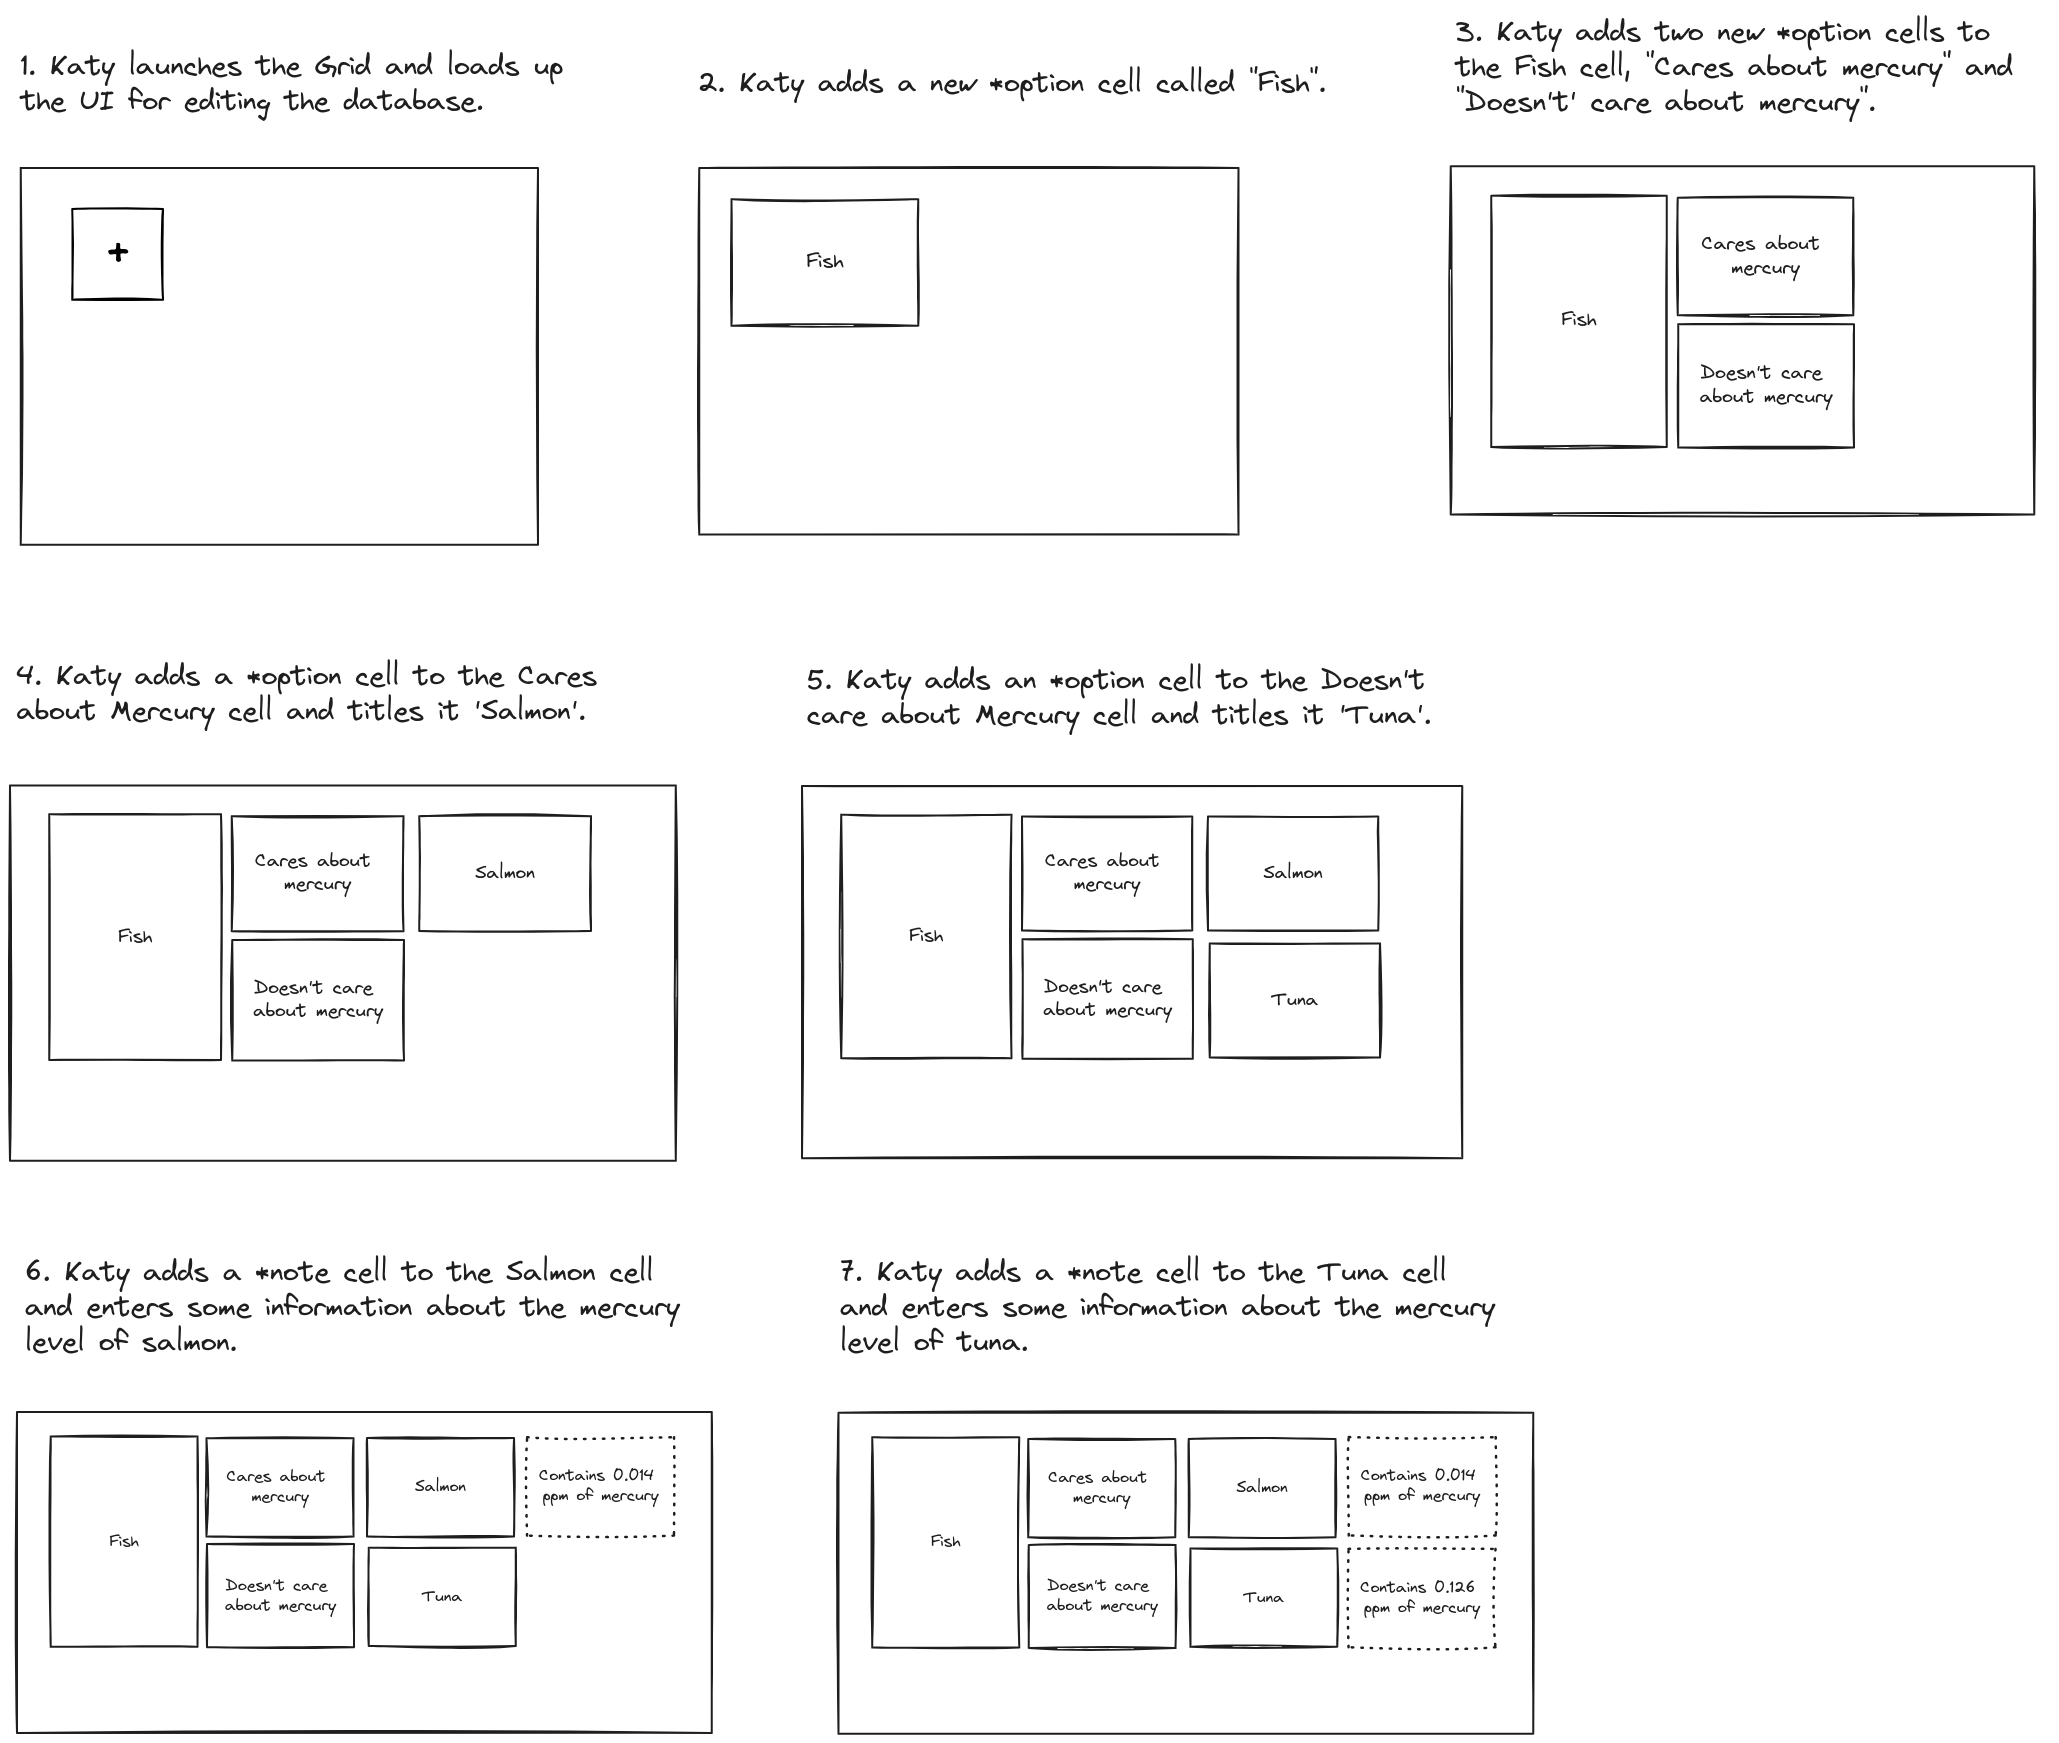
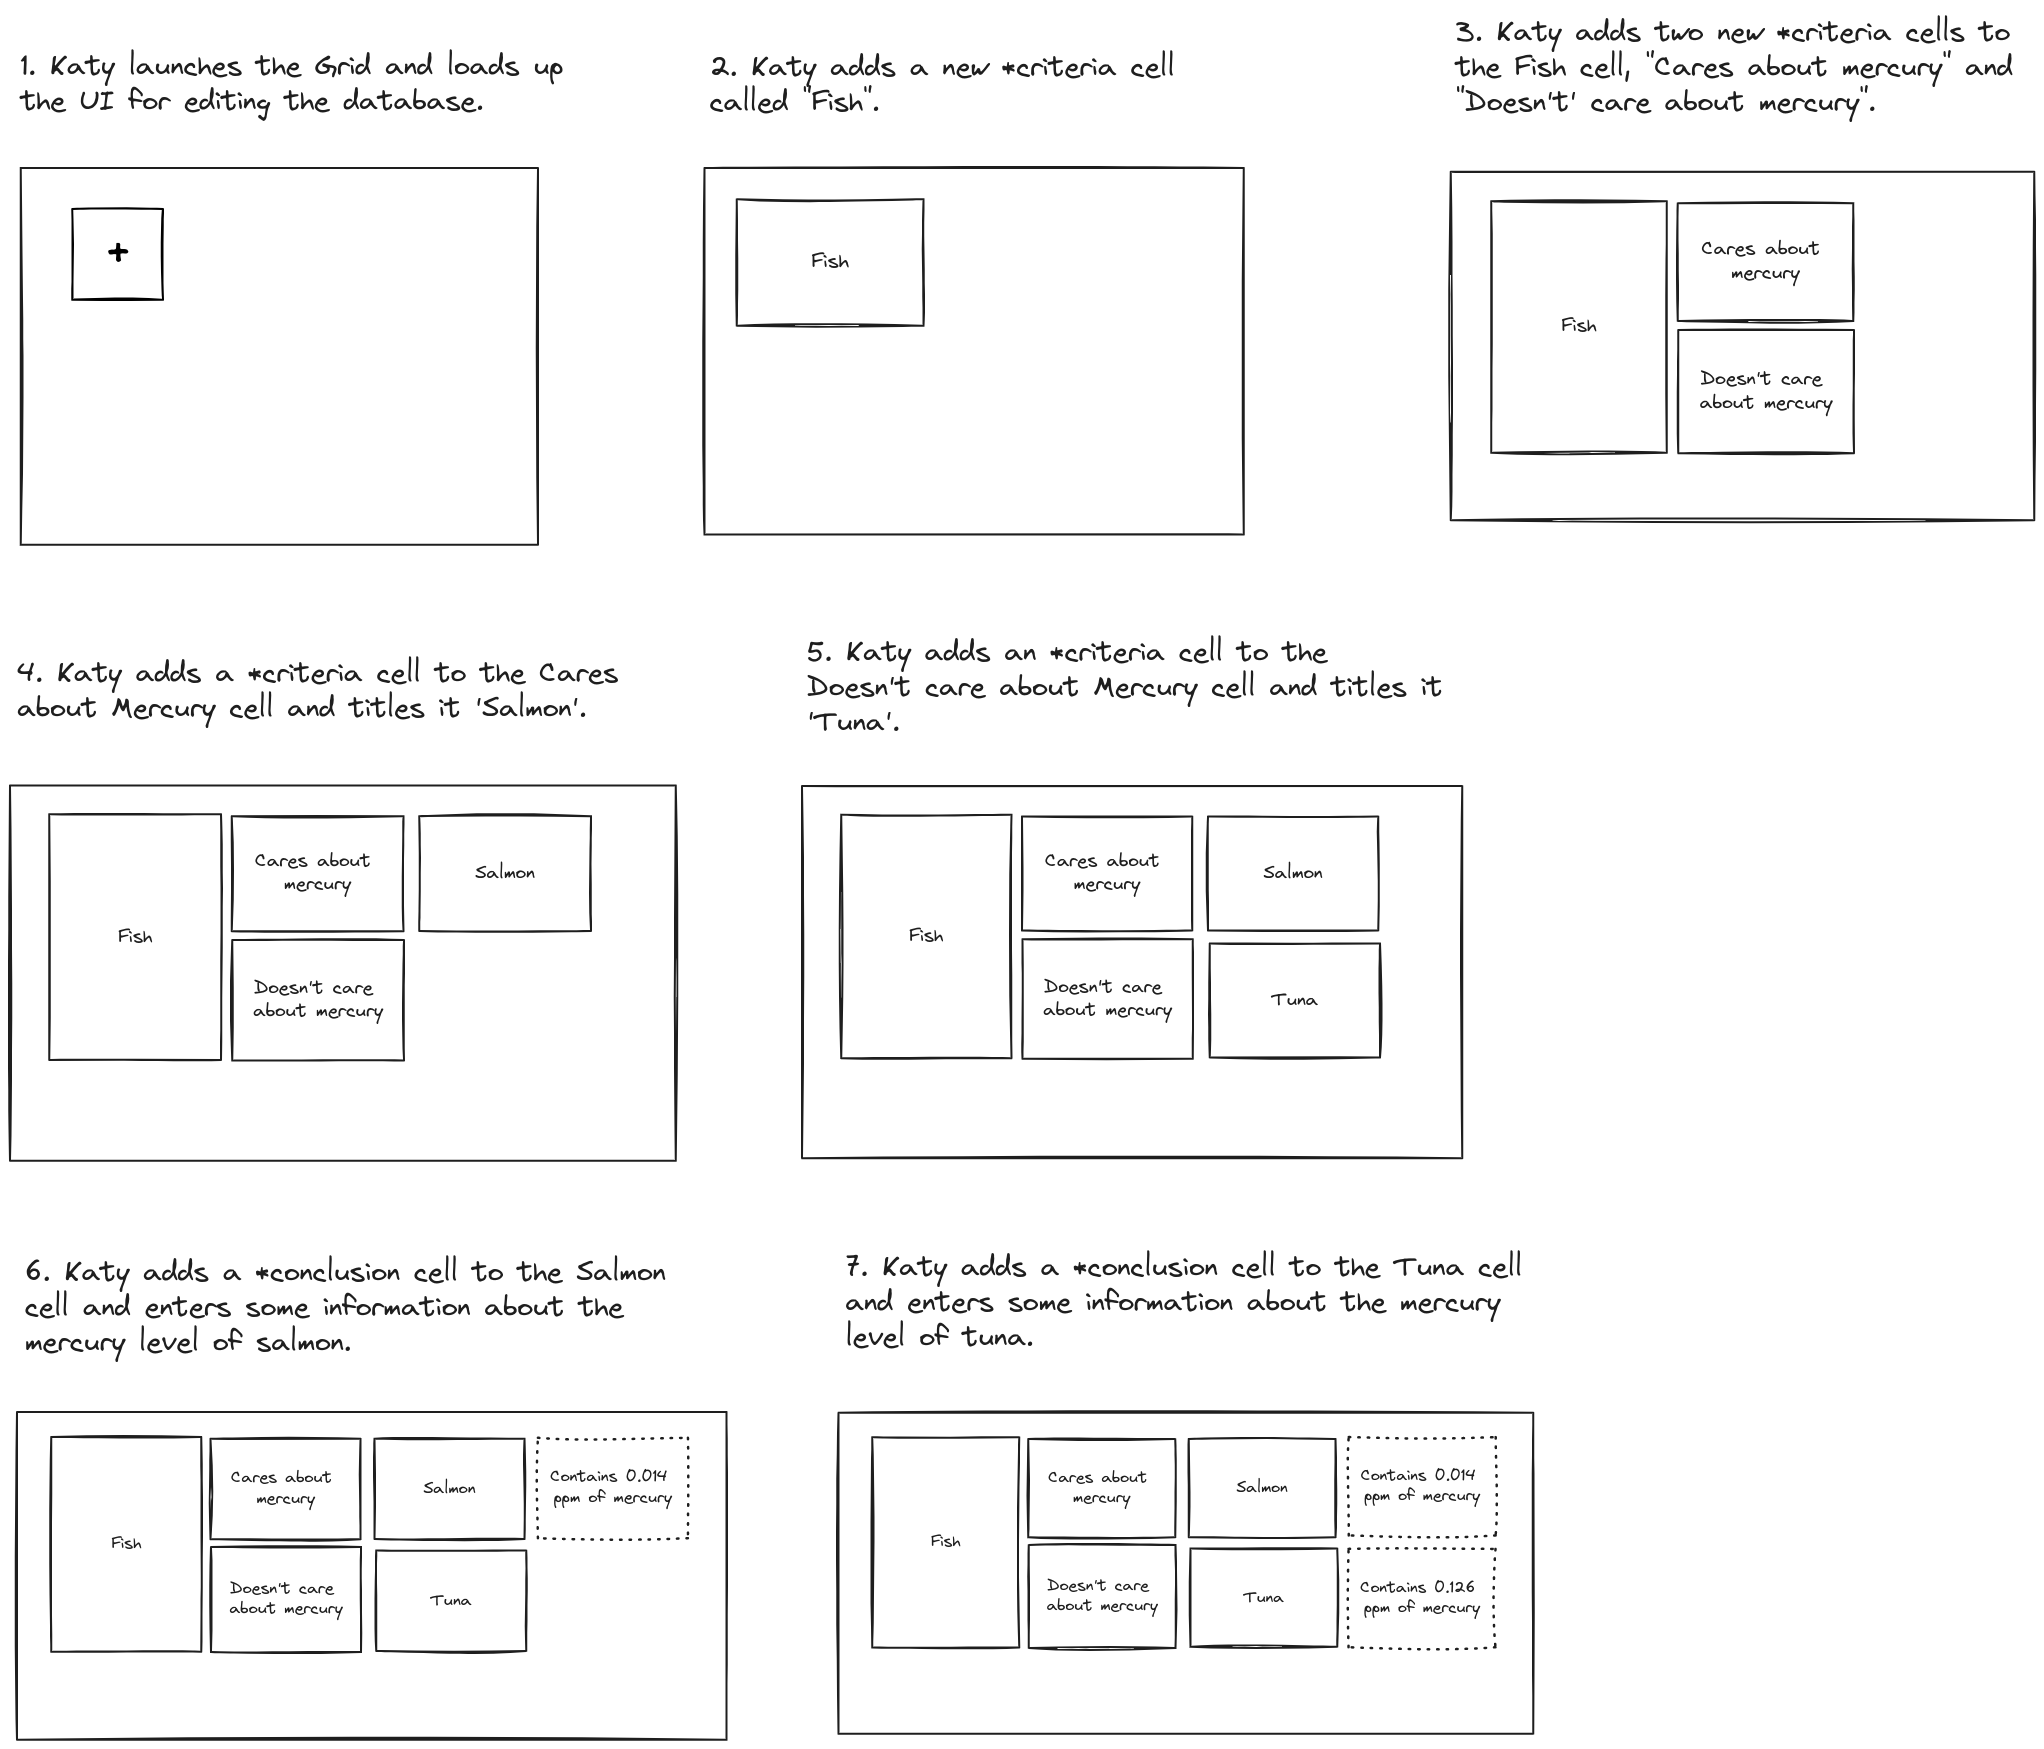
docs: change cell name to criteria/conclusions

diff --git a/docs/Products/Grid/Design/user-journeys.md b/docs/Products/Grid/Design/user-journeys.md
@@ -19,11 +19,12 @@ This map describes Katy using the Grid instead of Excel to meet her needs.
 
 ### User Flow: Entering diet options in the database.
 
-Katy would like to add diet information and her own notes to the database.
+Katy would like to add diet information and her own notes about fish to the database.
 
 <img src="/img/katy-user-flow-database.png"/>
 
-
 ### User Flow: Creating a chart for a client.
+
+Katy would like to create a chart for a client that wants to eat fish but also wants to avoid mercury.
 
 <img src="/img/katy-user-flow-charts.png" />
